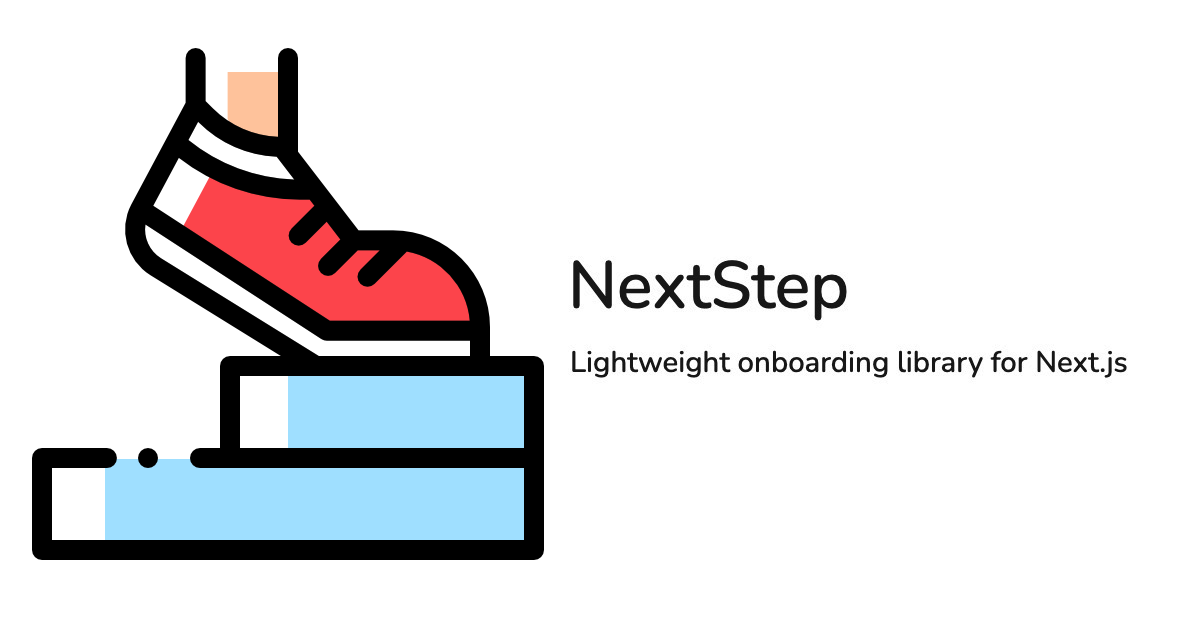
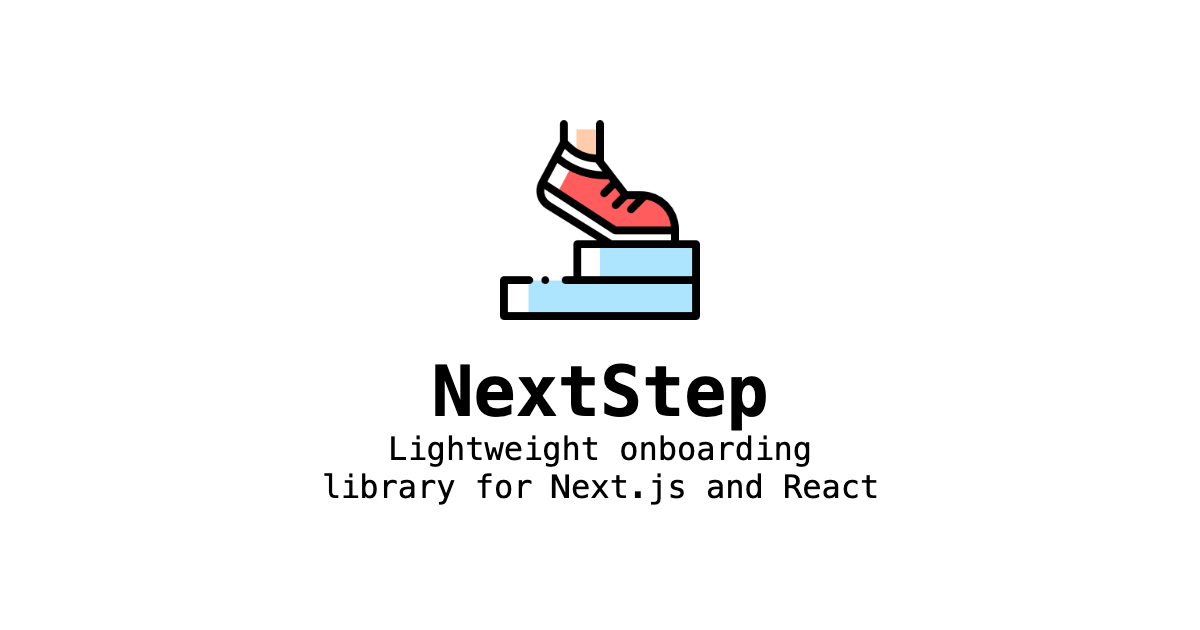
update images

Changed region(s): [[0.0, 0.0603, 0.9558, 0.9048]]

diff --git a/README.md b/README.md
@@ -1,6 +1,6 @@
 ## NextStep
 
-![NextStep](./public/nextstepjs.png)
+![NextStep](./public/ogThumbnail.png)
 
 **NextStep** is a lightweight onboarding library for Next.js / React applications. It utilizes [motion](https://www.motion.dev) for smooth animations and supports multiple React frameworks including Next.js, React Router, and Remix.
 
